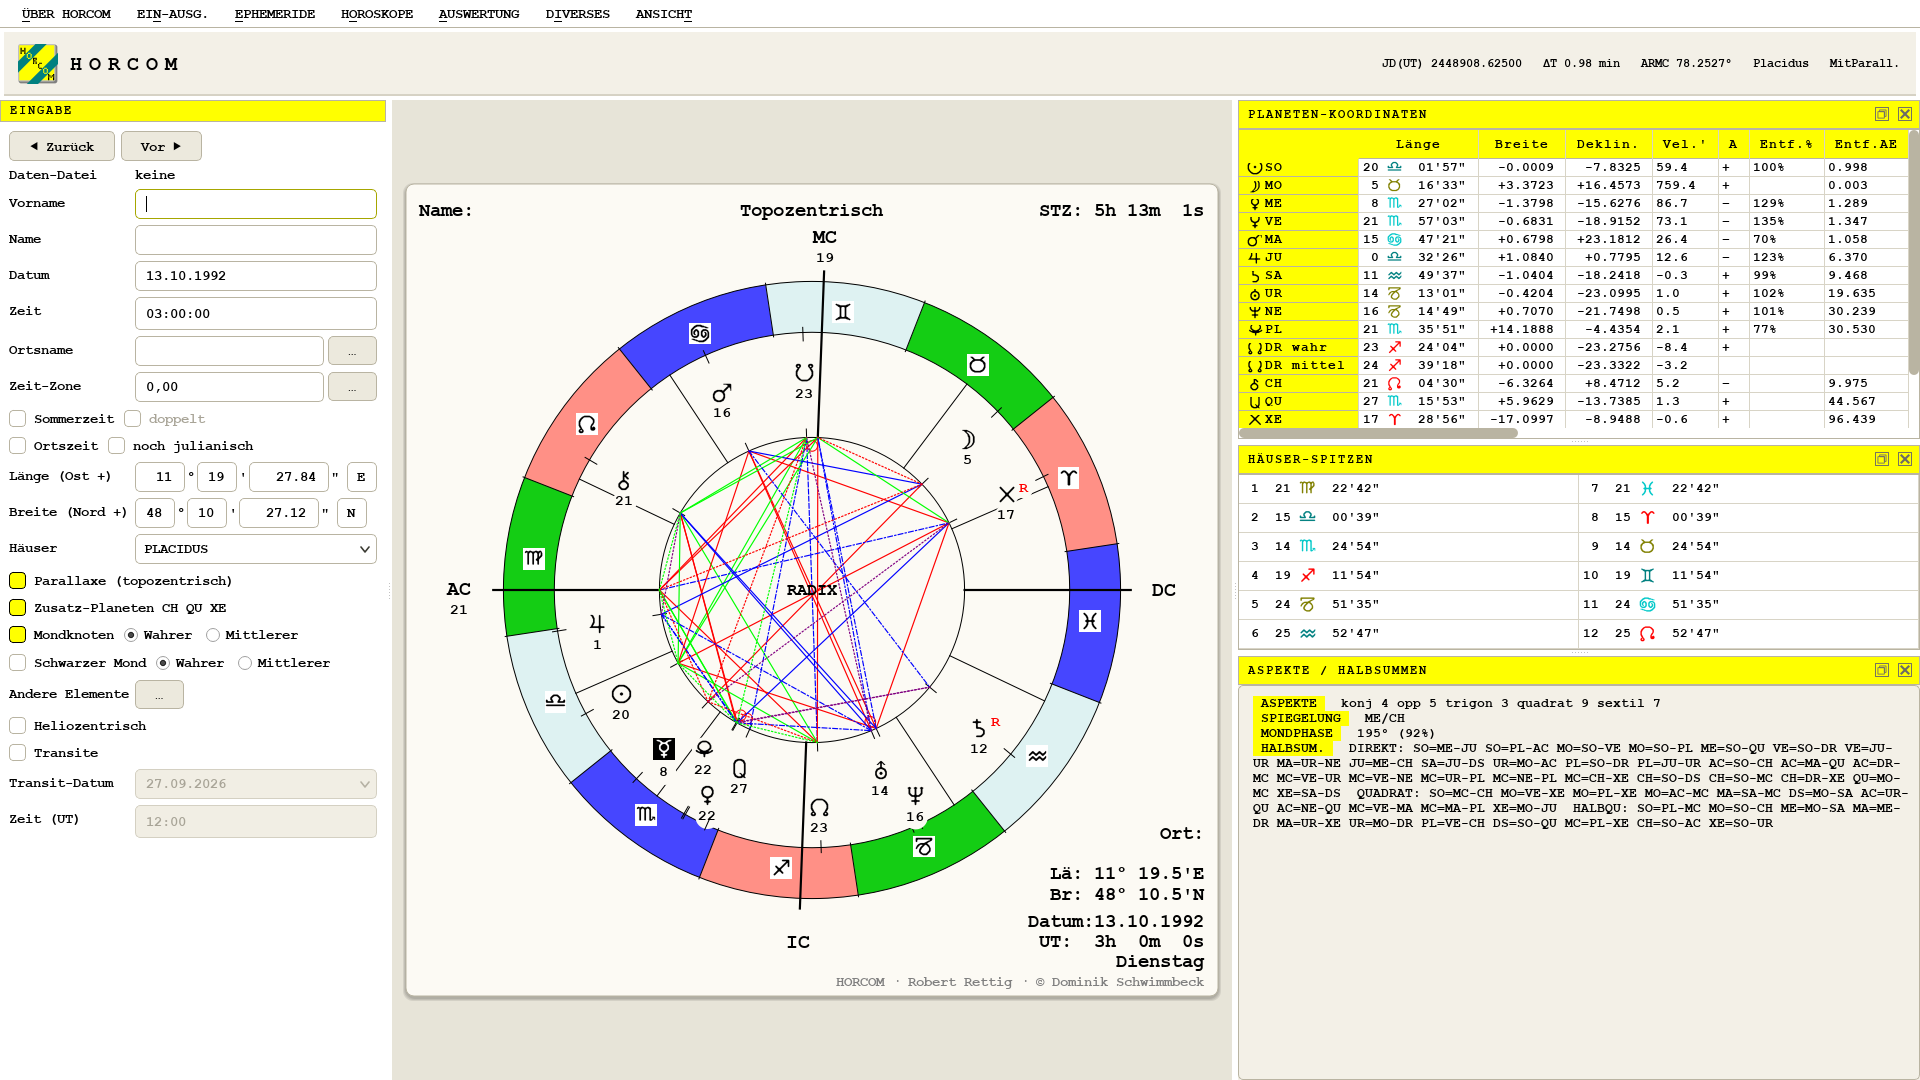
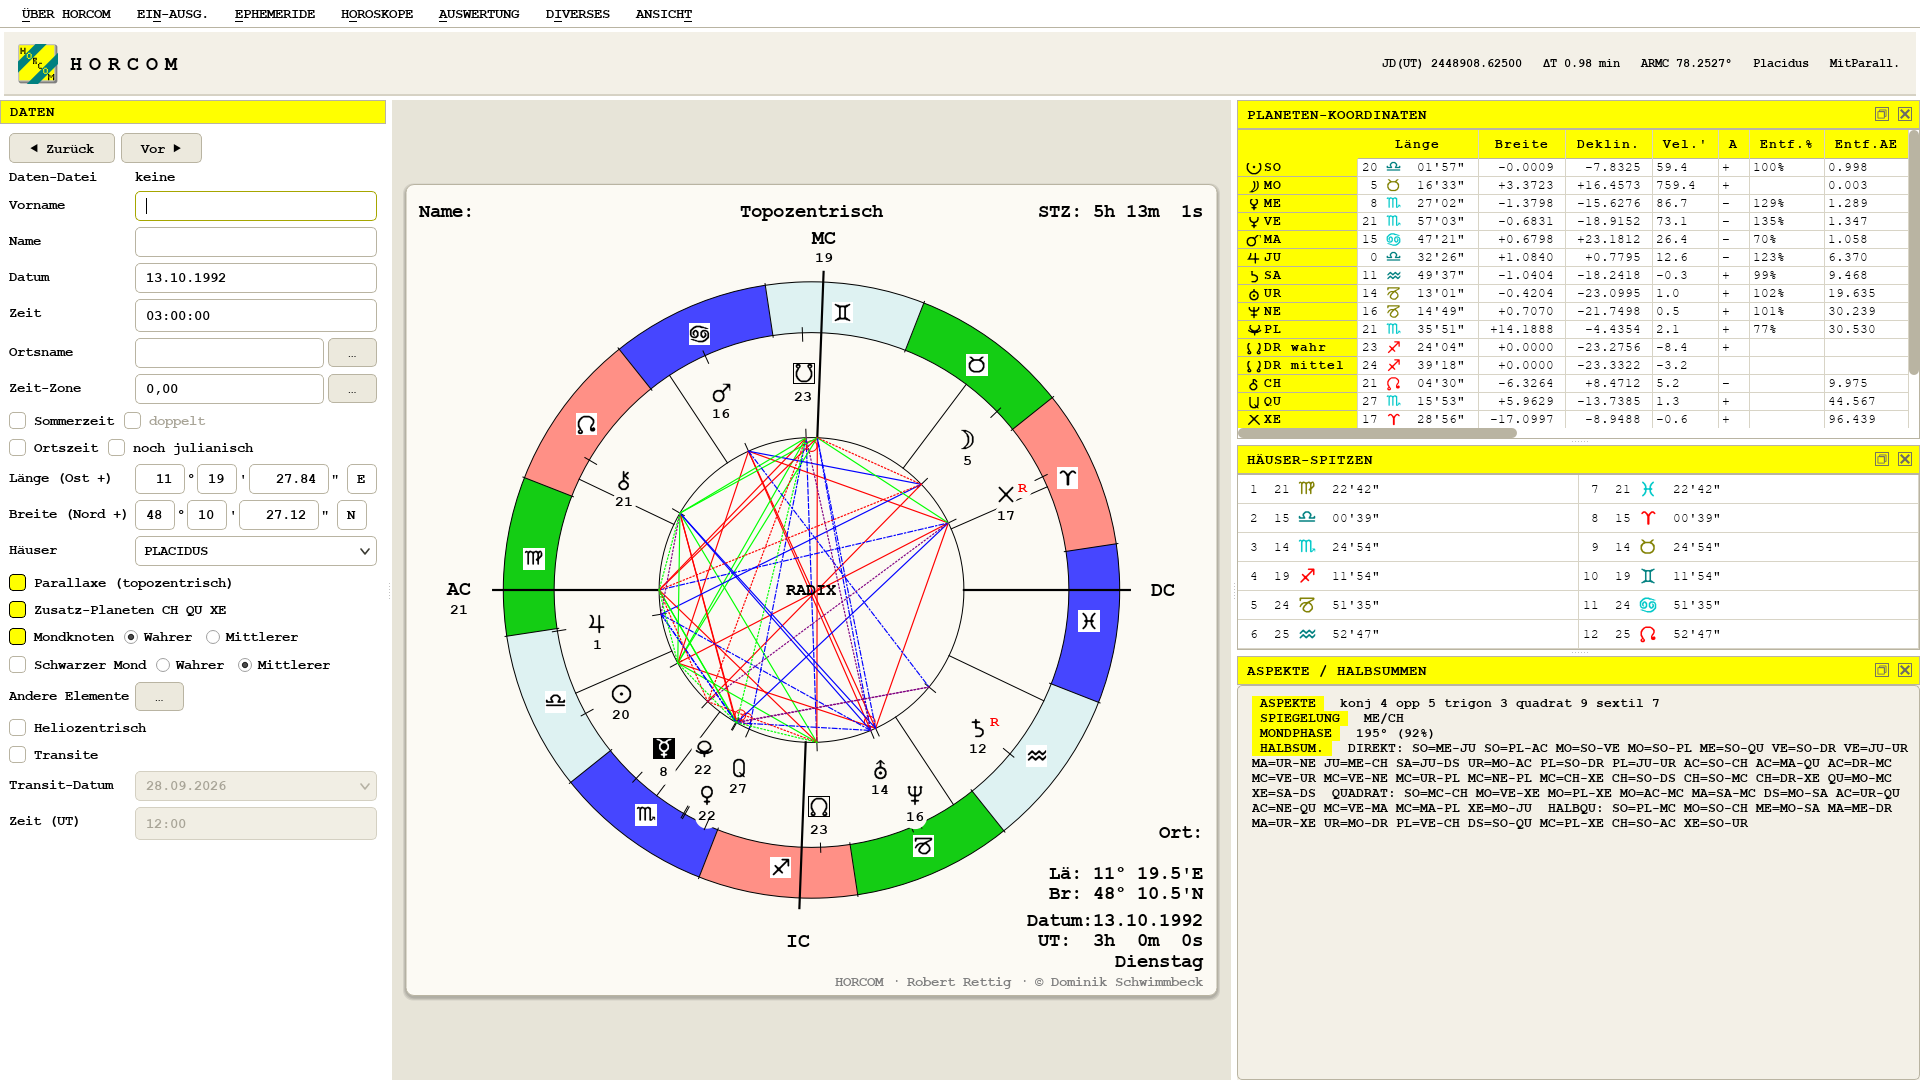
feat/gui: die GRAPHIK der Münchner Rhythmenlehre schreibt das ganze Jahr wie Tabelle und GRAD-DATUM-LISTE, 13.10.1992 statt 13.10.92, die Beschriftungen der Größe neun fassen die vier Ziffern auf beiden Seiten der Achse, der Nachtrag des Testers zu den Septaren wünschte es. Der Septar-Test prüft daz

diff --git a/docs/handbook/tutorial.html b/docs/handbook/tutorial.html
@@ -580,8 +580,9 @@ house, then the SPECIAL POINT, kept from the last run, defined as an
 ecliptic degree or through a date, or none. A SEPTAR asks the period in
 months, then the year of life of interest and the special point in
 a box that names the Septar being cast, and names the years it governs.
-The TRIGGER TABLE and the DEGREE DATE LIST write every date with the whole
-year, the list of a seven year period spans 84 years and more.
+The GRAPHIC, the TRIGGER TABLE and the DEGREE DATE LIST write every date
+with the whole year, the walk of a seven year period spans 84 years and
+more.
 The <b>DYNAMOGRAM</b> draws the summed intensity curves after
 Krafft-Goerner over five years of life, and with <i>WATCH the SINGLE
 ARCS ?</i> it first shows one screen per pass of its analysis. The

diff --git a/tests/gui/test_rhythm.cpp b/tests/gui/test_rhythm.cpp
@@ -133,7 +133,7 @@ TEST_CASE("MÜNCHNER RHYTHMENLEHRE walks his graph phase by phase") {
   CHECK(all.contains("Periode: 7 Jahre: LINKS"));
   CHECK(all.contains("WEITER mit Leertaste"));
   // the first phase opens with the ascendant on the day of birth
-  CHECK(first.contains("10. 5.70 D"));
+  CHECK(first.contains("10. 5.1970 D"));
   // a1795 arcs the first house in red
   CHECK(arcs > 0);
   // his naf& block moved beside the strip
@@ -485,7 +485,8 @@ TEST_CASE("SEPTAR walks his chain and the walk dates it from the offset") {
 
 TEST_CASE("SEPTAR and DECAR give the Schwingungshoroskop of the asked year of life") {
   // the tester's path, no stored Sonderpunkt and KEIN SONDERPUNKT, where
-  // his ZEIT-EINHEIT JAHR had returned the RADIX for every age below 84
+  // his ZEIT-EINHEIT JAHR had returned the RADIX for every age below 84.
+  // A period of its own goes through SONSTIGE like the Nonar of nine
   const auto cast = [](const QString& period, const QString& age, QStringList& visible_rows, QString& banner) {
     auto w = MainWindowProbe::make();
     MainWindowProbe::houses(*w, 1);
@@ -494,9 +495,15 @@ TEST_CASE("SEPTAR and DECAR give the Schwingungshoroskop of the asked year of li
     k.fixpunkt_rh.clear();
     k.lpktg = false;
     DialogDriver drive;
-    drive.then(DialogDriver::click("JA"))  // EREIGNIS-Ort = GEBURTS-Ort ?
-        .then(DialogDriver::click(period))
-        .then(DialogDriver::fill({age}, "OK"))
+    drive.then(DialogDriver::click("JA"));  // EREIGNIS-Ort = GEBURTS-Ort ?
+    bool own = false;
+    const int months = period.toInt(&own);
+    if (own) {
+      drive.then(DialogDriver::click("SONSTIGE")).then(DialogDriver::fill({QString::number(months)}, "OK"));
+    } else {
+      drive.then(DialogDriver::click(period));
+    }
+    drive.then(DialogDriver::fill({age}, "OK"))
         .then([&visible_rows](QDialog* d) {
           for (const QAbstractButton* b : d->findChildren<QAbstractButton*>()) {
             if (b->isVisibleTo(d)) {
@@ -506,6 +513,10 @@ TEST_CASE("SEPTAR and DECAR give the Schwingungshoroskop of the asked year of li
           DialogDriver::click("KEIN SONDERPUNKT")(d);
         })
         .then([](QDialog* d) { d->accept(); });
+    // below seven years his second box says 1. SEPTAR = RADIX !
+    if (age.toInt() < 7) {
+      drive.then([](QDialog* d) { d->accept(); });
+    }
     MainWindowProbe::septar(*w);
     INFO(drive.titles().join(" | ").toStdString());
     CHECK(drive.pending() == 0);
@@ -527,6 +538,15 @@ TEST_CASE("SEPTAR and DECAR give the Schwingungshoroskop of the asked year of li
   rows.clear();
   CHECK(cast("ZEHN", "70", rows, banner) == 1977);
   CHECK(banner == "8.SEPTAR");
+  // the Nonar of nine months a house, 70 lies in 63 to 72, the eighth
+  // Schwingungshoroskop and the seventh solar
+  rows.clear();
+  CHECK(cast("9", "70", rows, banner) == 1977);
+  CHECK(banner == "8.SEPTAR");
+  // below the first period the Septar is the radix itself
+  rows.clear();
+  CHECK(cast("SIEBEN", "5", rows, banner) == 1970);
+  CHECK(banner == "1.SEPTAR");
 }
 
 namespace {

diff --git a/apps/gui/main_window_rhythm.cpp b/apps/gui/main_window_rhythm.cpp
@@ -770,7 +770,9 @@ DisplayList MainWindow::rhythm_phase_screen(const RhythmRun& run, const std::vec
       continue;
     }
     const double y = rhythm_axis_y(t.value, start, length);
-    const QString date = datum_text(calendar_date(rhythm_jd(run.clock, t.value), cal));
+    // the whole year like the table and the list, it fits the strip of the
+    // size nine labels on both sides of the axis
+    const QString date = datum_full_text(calendar_date(rhythm_jd(run.clock, t.value), cal));
     if (t.kind == RhythmKind::kAspect || t.kind == RhythmKind::kMirror) {
       // NOT (v& = 11 OR v& = 12), the nodes stay off the right column
       if (t.slot == body::kNodeAsc || t.slot == body::kNodeDesc) {

diff --git a/docs/architecture.md b/docs/architecture.md
@@ -204,7 +204,7 @@ Dependency direction is strictly downward: `app -> render -> chart -> ephem -> t
     - Addition on the tester's wish: after a COMBIN a box names the level like the SOLAR level of `plant2`, SIE BEFINDEN SICH NUN IN DER COMBIN - EBENE !, with COMBIN-EBENE VERLASSEN back to the RADIX of the first click, ALLES LÖSCHEN through AUFRÄUMEN with its own RÜCKSETZEN ? box, and WEITER MACHEN as the default.
     - SEPTAR in months, listed under the known original bugs above. The MÜNCHNER RHYTHMENLEHRE on a Septar chart walks in months too, with JAHR its offset would have counted twelve periods per Septar a second time, a Septar taken over as radix walks from its own moment in either unit. Beyond twelve periods the count goes on with the thirteenth Septar like `sen = FIX(a / vp + 1)` did, the tester's table ends at the twelfth.
     - A derived chart at another place named the birth place in the corner of the sheet, `classic_sheet_text` read `record_.place` while the panel showed the place of `ort_wahl`. The sheet reads the panel place, the birth record keeps its own. Fixed in the rewrite as well, the corner coordinates rounded the minutes without a carry and printed 73° 60.0'W for a place read back as 73.99999°, and the DMS boxes of the panel 73° 59' 60". Both carry now.
-    - Deviations on the tester's wish: the plural ORBEN in the whole ORBES BESTIMMEN series and the overview where his captions read ORBES, the orb formula ORBIS = 12°/ TEILER and FAKTOR von ORBEN in PROZENTEN as the tester wrote them. His blank rows of the question boxes, placeholders that kept the numbers of the answers, stand hidden, the tester took them for empty fields. The DATEN title of the input panel, the name the tester gave it, and the dock titles at the size of the panel text. The rows of every table and list, the record chooser included, stand in the plain weight so the bold column heads read as heads, his FW_BOLD gave both one face and the tester asked twice. The VORGABEN-ÜBERSICHT keeps his yellow box on the captions of its sections alone, where `deftextcol(2)` had painted the name, the place, the date and the clock too. The HÄUSER-SYSTEM box marks the system in force in the yellow label box. The GRAD-DATUM-LISTE and the AUSLÖSUNGS-TABELLE date with the whole year, his `datum$` kept two digits for a walk of 84 years, the graph of the rhythm theory keeps them, its strip has no room for four. The true node stands in a thin frame on the wheel, the ASPEKTARIUM and the HALBSUMMEN-GRAPHIK, the family had asked for the nodes without his inverse stamp and then missed the difference to the mean node. AUFGANG / UNTERGANG marks the body of each block with its sprite and its tag bold in his `deftextcol(2)` blue on the Länge row, where `plein2` stamped the sprite. FINSTERNISSE shows the hits in pale colours, the eclipses in the pale tone of their light and the aspects of the record in light grey, where `tinv` inverted them white on black.
+    - Deviations on the tester's wish: the plural ORBEN in the whole ORBES BESTIMMEN series and the overview where his captions read ORBES, the orb formula ORBIS = 12°/ TEILER and FAKTOR von ORBEN in PROZENTEN as the tester wrote them. His blank rows of the question boxes, placeholders that kept the numbers of the answers, stand hidden, the tester took them for empty fields. The DATEN title of the input panel, the name the tester gave it, and the dock titles at the size of the panel text. The rows of every table and list, the record chooser included, stand in the plain weight so the bold column heads read as heads, his FW_BOLD gave both one face and the tester asked twice. The VORGABEN-ÜBERSICHT keeps his yellow box on the captions of its sections alone, where `deftextcol(2)` had painted the name, the place, the date and the clock too. The HÄUSER-SYSTEM box marks the system in force in the yellow label box. The GRAD-DATUM-LISTE, the AUSLÖSUNGS-TABELLE and the GRAPHIK of the rhythm theory date with the whole year, his `datum$` kept two digits for a walk of 84 years, and the size nine labels of the strip hold the four digits on both sides of the axis. The true node stands in a thin frame on the wheel, the ASPEKTARIUM and the HALBSUMMEN-GRAPHIK, the family had asked for the nodes without his inverse stamp and then missed the difference to the mean node. AUFGANG / UNTERGANG marks the body of each block with its sprite and its tag bold in his `deftextcol(2)` blue on the Länge row, where `plein2` stamped the sprite. FINSTERNISSE shows the hits in pale colours, the eclipses in the pale tone of their light and the aspects of the record in light grey, where `tinv` inverted them white on black.
     - Additions: AKTUELLEN Datensatz EINTRAGEN asks the file first like the fetch, the bound file, another existing one that becomes the working file, or a new name that starts a file with this record like `a2dat`, without a bound file it opens the file choice at once and the EINTRAGEN of the DATEI hub writes into the file the hub stands on. ZUORDNUNG ZEICHENHERRSCHER offers a third set beside his NEU and ALT, the tester's NEU mit QU, CH with Quaoar for Taurus and Chiron for Virgo, Venus and Mercury rule where a chart or a dataset carries no Quaoar or Chiron (`RulerSet`, `carried_ruler`). With Quaoar or Chiron as the birth ruler, 1. GEBURTSHERRSCHER DOPPELT doubles that body in the histograms, which counts with the ZUSATZ weight of the point table, zero in his profile, so the doubling shows only once the extra bodies carry a weight. His alt! lived for the session, the choice of the three sets is kept in the settings so the tester sets it once, ALLES ZURÜCKSETZEN returns it to his NEU.
     - Checked and kept: KORREKTUR writes the corrected moment into the RADIX like `korr` did through `a316061`, Zurück takes it back. ZEIT-WANDERN and ORT-WANDERN end on the moment and place they started from unless VARIIERTE ZEIT or GEÄNDERTE KOORDINATEN is answered with JA, like `merkr(1)`. The tester's remark on DATUM aus JD needs no change.
 
